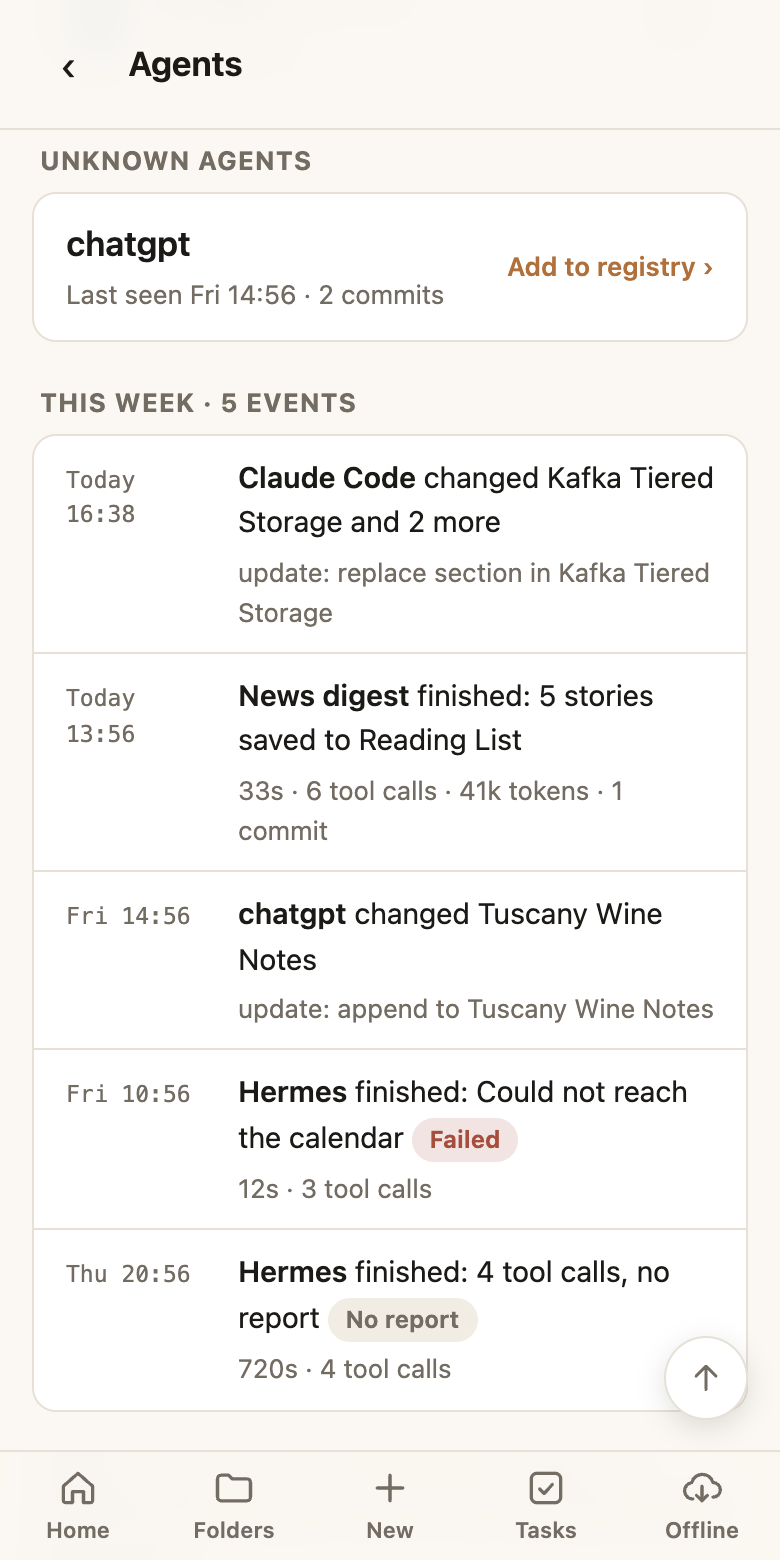
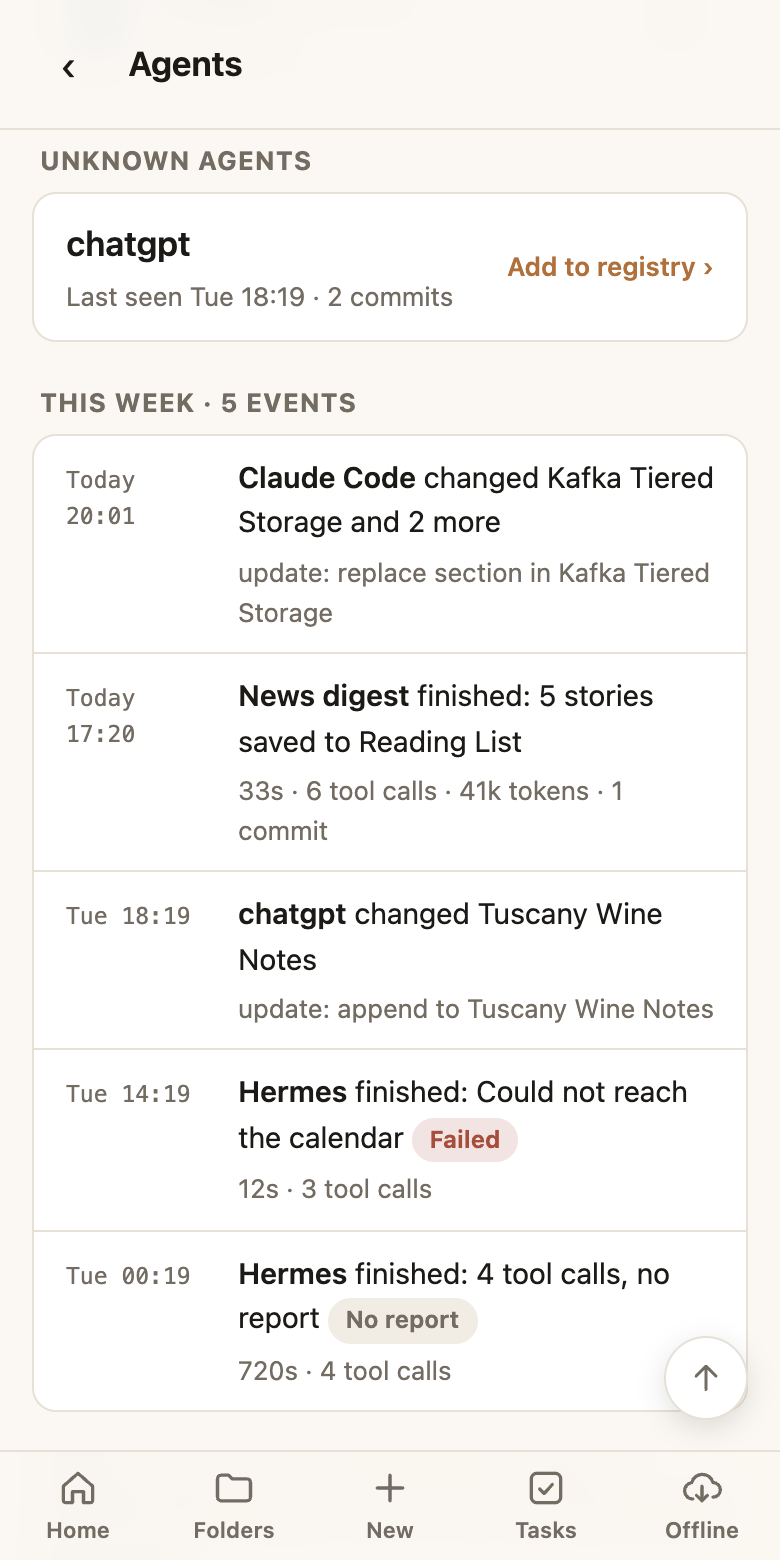
Mission control: the Done button on Needs you, and new pictures of the Agents page

diff --git a/docs/features/mission-control.md b/docs/features/mission-control.md
@@ -185,12 +185,14 @@ What `report_run` takes:
 
 ### Needs you
 
-Newest first, each with one place to go. Nothing is dismissed by hand: an item goes away when the thing behind it is dealt with. The **?** beside the title says how, in the app.
+What your agents want you to act on: warnings, and to-dos an agent left you. Updates that need nothing from you are in the timeline instead. Newest first, each with one place to go.
 
-- **Agents that are overdue or failed.** Clears when the agent next runs successfully.
+Once you have dealt with an item, tap **Done** beside it and it goes for good (the toast has an **Undo**). Proposals have no Done: you answer them instead. Items also clear by themselves, as below. The **?** beside the title says the same, in the app.
+
+- **Agents that are overdue or failed.** Clears when the agent next runs successfully. **Done** hides it until the next missed time or failed run, and it stops counting as failing on the home screen.
 - **[Proposals](proposals.md) to approve or reject:** unanswered lines such as `- [ ] **T16** File the inbox notes` in notes tagged `proposals`. Open the report and tick a proposal to approve it, or tap **Reject** beside it to turn it down for good. A proposal repeated in several reports is listed once, under the newest, and one answer anywhere counts for all of them.
-- **What an agent asked you to look at**, from its last report. Replaced by its next run.
-- **Rollbacks** the [safety net](safety.md) caught in the last week. Ticking or unticking a task in the app is never counted as one.
+- **What an agent asked you to look at**, from its last report. Replaced by its next run. One that points at a report of proposals clears once they are all answered.
+- **Rollbacks** the [safety net](safety.md) caught in the last week. Ticking or unticking a task in the app is never counted as one. Drops off after a week, or tap **Done** once you have checked it.
 
 ### Scheduled next
 
@@ -231,6 +233,7 @@ Recording happens on the Unibrain server, **not in your vault**, and only while 
 | The path of the one note the call was about | Any other argument to a tool |
 | The commit it made | Pictures, tokens, passwords |
 | What the agent put in `report_run` | |
+| Which Needs you items you marked Done | |
 
 Only you see your agents' activity. Recordings are kept for **30 days**, then deleted. **Delete Agents data** in Settings removes them at once, and they go with the rest of your data if you leave. See [Privacy and security](../reference/privacy.md).
 
@@ -258,7 +261,6 @@ The switch and four values are in `.brain/settings.json`, under `missionControl`
 - **No notifications.** You have to open the page; nothing is pushed to your phone.
 - **Agents can't ask how things are.** There is no tool yet for one agent to read the page and tell you.
 - **Only what goes through Unibrain is seen.** Work an agent does elsewhere shows only as its final report.
-- **A safety-net warning can't be dismissed.** It shows for a week.
 - **Past activity is re-sorted** when you change a registry note, since who did what is worked out each time the page opens.
 - **Offline**, the page shows the last copy your phone saved.
 
